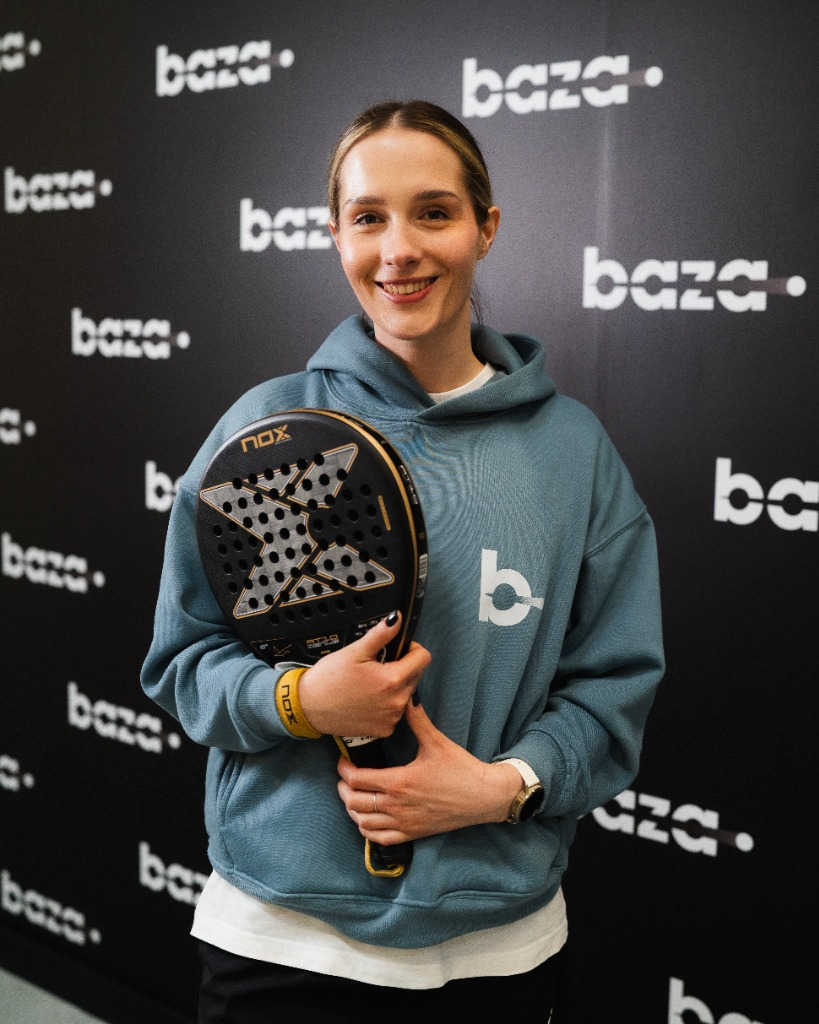
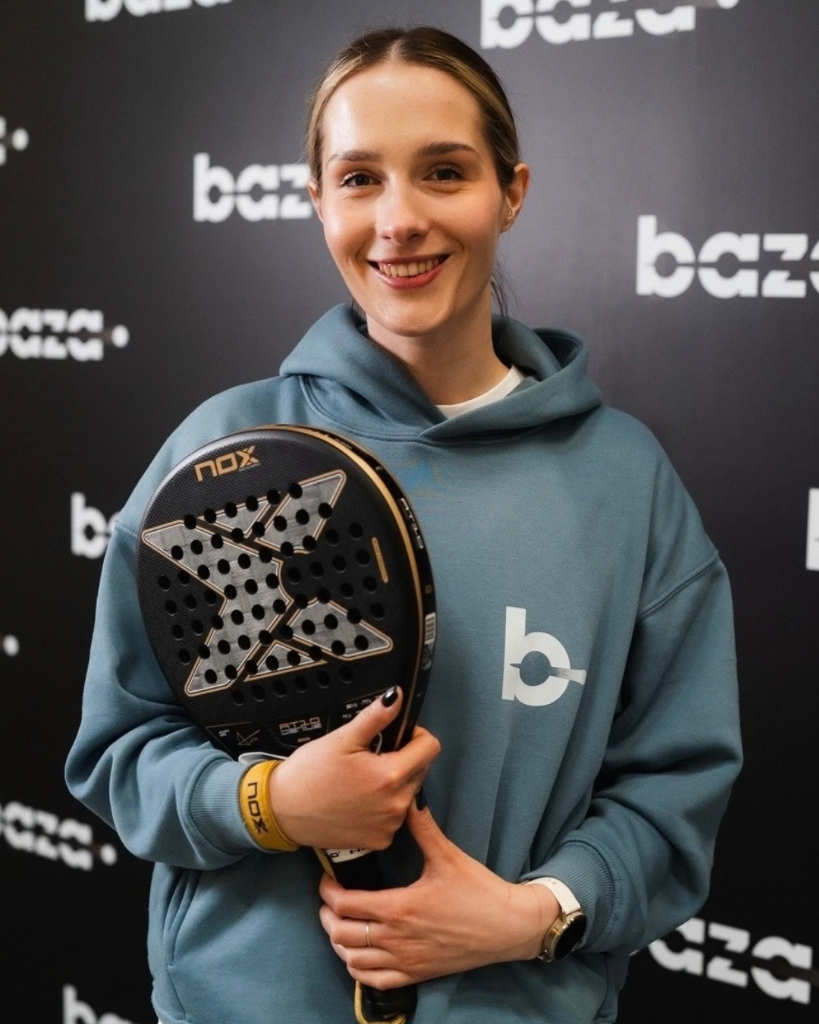
feat: add 3rd coach Daniel Lewandowski, update Klaudia Marzec, update coach photos and counts

diff --git a/src/components/Coaches.tsx b/src/components/Coaches.tsx
@@ -34,7 +34,7 @@ export default function Coaches() {
         </figcaption>
       </figure>
 
-      <div className="grid md:grid-cols-2 gap-6 md:gap-8 mb-12 max-w-4xl">
+      <div className="grid md:grid-cols-2 lg:grid-cols-3 gap-6 md:gap-8 mb-12 max-w-6xl">
         {/* Coach 1 */}
         <article className="glass-card flex flex-col group overflow-hidden">
           <div className="relative h-[320px] md:h-[360px] overflow-hidden bg-navy-900">
@@ -51,7 +51,7 @@ export default function Coaches() {
             <span className="text-navy-300 text-xs font-bold uppercase tracking-wider mb-2">Trener • technika i dynamika</span>
             <h3 className="font-archivo text-2xl md:text-3xl leading-[0.95] tracking-tight mb-4 text-white">Krzysztof<br />Brończyk</h3>
             <p className="text-navy-200 text-sm leading-relaxed mb-6 flex-1">Pomaga budować pewność na korcie, doskonalić uderzenia i grać odważniej — niezależnie od poziomu.</p>
-            <a href="#kontakt" className="inline-block text-gold-400 text-sm font-bold hover:text-gold-300 border-b border-gold-400/40 pb-1 w-fit transition-colors">Umów trening z Krzysztofem →</a>
+            <a href="tel:+48735077481" className="inline-block text-gold-400 text-sm font-bold hover:text-gold-300 border-b border-gold-400/40 pb-1 w-fit transition-colors">Umów trening z Krzysztofem →</a>
           </div>
         </article>
 
@@ -60,7 +60,7 @@ export default function Coaches() {
           <div className="relative h-[320px] md:h-[360px] overflow-hidden bg-navy-900">
             <Image 
               src="/images/trener-klaudia.jpg" 
-              alt="Klaudia — trenerka Baza Padel" 
+              alt="Klaudia Marzec — trenerka Baza Padel" 
               fill 
               className="object-cover object-[center_18%] group-hover:scale-105 transition-transform duration-500" 
             />
@@ -69,19 +69,45 @@ export default function Coaches() {
           </div>
           <div className="p-7 flex-1 flex flex-col">
             <span className="text-navy-300 text-xs font-bold uppercase tracking-wider mb-2">Trenerka • ruch i swoboda</span>
-            <h3 className="font-archivo text-2xl md:text-3xl leading-[0.95] tracking-tight mb-4 text-white">Klaudia</h3>
+            <h3 className="font-archivo text-2xl md:text-3xl leading-[0.95] tracking-tight mb-4 text-white">Klaudia<br />Marzec</h3>
             <p className="text-navy-200 text-sm leading-relaxed mb-6 flex-1">Łączy konkretne wskazówki z dobrą energią. Idealny wybór na pierwsze treningi i dalszy rozwój.</p>
-            <a href="#kontakt" className="inline-block text-gold-400 text-sm font-bold hover:text-gold-300 border-b border-gold-400/40 pb-1 w-fit transition-colors">Umów trening z Klaudią →</a>
+            <a href="tel:+48735077481" className="inline-block text-gold-400 text-sm font-bold hover:text-gold-300 border-b border-gold-400/40 pb-1 w-fit transition-colors">Umów trening z Klaudią →</a>
+          </div>
+        </article>
+
+        {/* Coach 3 */}
+        <article className="glass-card flex flex-col group overflow-hidden">
+          <div className="relative h-[320px] md:h-[360px] overflow-hidden bg-navy-900">
+            <Image 
+              src="/images/trener-daniel.jpg" 
+              alt="Daniel Lewandowski — trener Baza Padel" 
+              fill 
+              className="object-cover object-[center_18%] group-hover:scale-105 transition-transform duration-500" 
+            />
+            <div className="absolute inset-0 bg-gradient-to-t from-navy-950/80 via-transparent to-transparent"></div>
+            <span className="absolute left-6 top-6 badge badge-gold">TAKTYKA</span>
+          </div>
+          <div className="p-7 flex-1 flex flex-col">
+            <span className="text-navy-300 text-xs font-bold uppercase tracking-wider mb-2">Trener • strategia i precyzja</span>
+            <h3 className="font-archivo text-2xl md:text-3xl leading-[0.95] tracking-tight mb-4 text-white">Daniel<br />Lewandowski</h3>
+            <p className="text-navy-200 text-sm leading-relaxed mb-6 flex-1">Stawia na solidne podstawy, czytanie gry i strategiczne podejście. Pomoże Ci wejść na wyższy poziom rywalizacji.</p>
+            <a href="tel:+48735077481" className="inline-block text-gold-400 text-sm font-bold hover:text-gold-300 border-b border-gold-400/40 pb-1 w-fit transition-colors">Umów trening z Danielem →</a>
           </div>
         </article>
       </div>
 
-      <div className="text-center md:text-left">
+      <div className="glass-card-gold p-6 md:p-8 rounded-2xl flex flex-col sm:flex-row items-center justify-between gap-6 max-w-6xl">
+        <div>
+          <span className="badge badge-gold mb-2">REZERWACJA TRENINGU</span>
+          <p className="text-white text-base md:text-lg font-medium">
+            Wybierz jednego z naszych instruktorów i umów się na trening
+          </p>
+        </div>
         <a
-          href="#kontakt"
-          className="btn-primary"
+          href="tel:+48735077481"
+          className="btn-primary whitespace-nowrap text-base !py-3.5 !px-8 shadow-lg hover:shadow-orange-500/25"
         >
-          Umów trening <span className="font-normal text-base">↗</span>
+          Zadzwoń: 735 077 481 <span className="font-normal text-base">↗</span>
         </a>
       </div>
     </section>

diff --git a/src/components/Hero.tsx b/src/components/Hero.tsx
@@ -48,11 +48,12 @@ export default function Hero() {
         <div className="flex items-center gap-4 mt-auto pt-8 border-t border-navy-300/15">
           <div className="flex -space-x-3">
             <span className="w-10 h-10 rounded-full bg-navy-800 text-gold-400 flex items-center justify-center font-bold text-sm border-2 border-navy-700 shadow-md">KB</span>
-            <span className="w-10 h-10 rounded-full bg-navy-700 text-navy-100 flex items-center justify-center font-bold text-sm border-2 border-navy-600 shadow-md">K</span>
+            <span className="w-10 h-10 rounded-full bg-navy-700 text-navy-100 flex items-center justify-center font-bold text-sm border-2 border-navy-600 shadow-md">KM</span>
+            <span className="w-10 h-10 rounded-full bg-navy-800 text-gold-400 flex items-center justify-center font-bold text-sm border-2 border-navy-700 shadow-md">DL</span>
           </div>
           <p className="text-navy-200 text-sm leading-tight">
             <strong className="text-white block font-semibold">Trenuj z najlepszymi</strong>
-            2 certyfikowanych trenerów • każdy poziom gry
+            3 certyfikowanych trenerów • każdy poziom gry
           </p>
         </div>
       </div>

diff --git a/src/components/ClubFacts.tsx b/src/components/ClubFacts.tsx
@@ -29,7 +29,7 @@ export default function ClubFacts() {
         
         {/* Fact 3 */}
         <div className="min-h-[126px] md:min-h-[145px] p-6 lg:px-[3vw] flex flex-col md:flex-row md:items-center gap-2 md:gap-4 border-r border-navy-300/15">
-          <strong className="font-archivo text-[32px] md:text-[38px] text-gold-400 tracking-[-2px] leading-none">2</strong>
+          <strong className="font-archivo text-[32px] md:text-[38px] text-gold-400 tracking-[-2px] leading-none">3</strong>
           <span className="text-[13px] leading-[1.35] font-semibold text-navy-100">
             trenerów dla<br />każdego poziomu
           </span>
